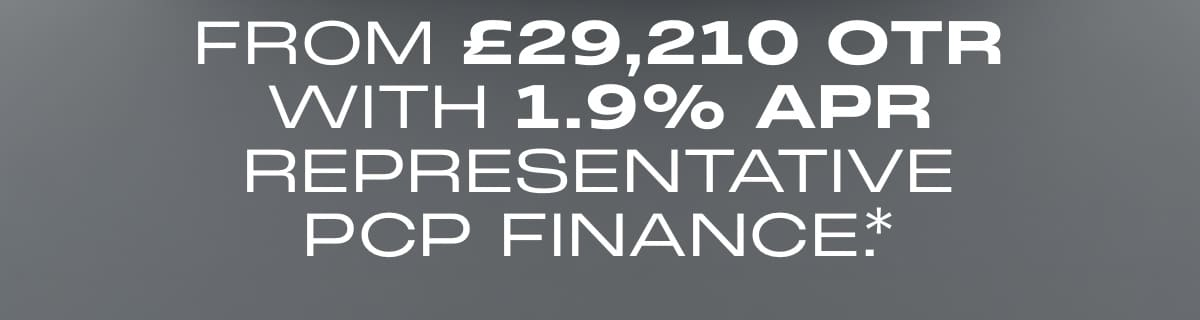
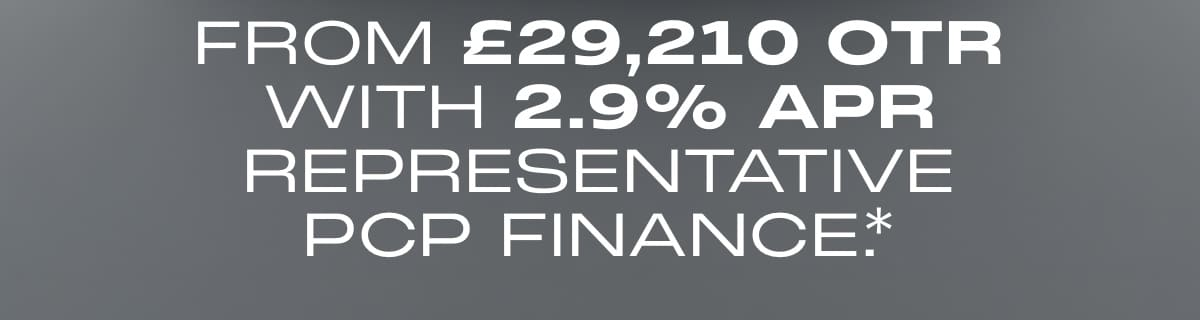
amends

Changed region(s): [[0.2158, 0.25, 0.8017, 0.4062]]

diff --git a/complete/omoda/JAECOO 7 SHS Hybrid Q3 2026 Offer Email/index.html b/complete/omoda/JAECOO 7 SHS Hybrid Q3 2026 Offer Email/index.html
@@ -126,9 +126,9 @@
                 <td align="center">
                   <img class="resp" align="center" src="images/hero-img.jpg" alt="JAECOO 7 SHS HYBRID" width="600" border="0" style="display: block; width: 600px; max-width: 100%; height: auto; font-family: Calibri, Helvetica, Arial, sans-serif; font-size:22px; line-height: 22px; color:#ffffff; Margin: 0; font-weight: bold">
                   <h2 style="font-family: Calibri, Helvetica, Arial, sans-serif; font-size:22px; line-height: 22px; color:#ffffff; Margin: 0; font-weight: bold">
-                    <img class="resp hom" align="center" src="images/hero-h1-d.jpg" alt="From £29,210 OTR with 1.9% APR representative PCP finance*." width="600" border="0" style="display: block; width: 600px; max-width: 100%; height: auto">
+                    <img class="resp hom" align="center" src="images/hero-h1-d.jpg" alt="From £29,210 OTR with 2.9% APR representative PCP finance*." width="600" border="0" style="display: block; width: 600px; max-width: 100%; height: auto">
                     <!--[if !mso]><!-->
-                    <img class="resp som" align="center" src="images/hero-h1-d.jpg" alt="From £29,210 OTR with 1.9% APR representative PCP finance*." border="0" style="display: none; width: 100%; max-width: 100%;height: auto">
+                    <img class="resp som" align="center" src="images/hero-h1-d.jpg" alt="From £29,210 OTR with 2.9% APR representative PCP finance*." border="0" style="display: none; width: 100%; max-width: 100%;height: auto">
                     <!--<![endif]-->
                   </h2>
                 </td>
@@ -153,7 +153,7 @@
                 </td>
                 <td style="padding: 20px 30px 20px; mso-padding-alt: 40px 30px 20px 30px;" align="center">
                   <p style="font-family: Calibri, Helvetica, Arial, sans-serif; font-size: 16px; line-height: 24px; mso-line-height-rule: exactly; color: #ffffff; Margin: 0 0 16px 0;">Hello&nbsp;[Name],</p>
-                  <p style="font-family: Calibri, Helvetica, Arial, sans-serif; font-size: 16px; line-height: 24px; mso-line-height-rule: exactly; color: #ffffff; Margin: 0 0 16px 0;">Experience the best of both worlds with the JAECOO 7 SHS Hybrid, <br class="hom"><strong>£29,210 OTR</strong> with <strong>1.9% APR Representative PCP&nbsp;Finance*</strong>.</p>
+                  <p style="font-family: Calibri, Helvetica, Arial, sans-serif; font-size: 16px; line-height: 24px; mso-line-height-rule: exactly; color: #ffffff; Margin: 0 0 16px 0;">Experience the best of both worlds with the JAECOO 7 SHS Hybrid, <br class="hom"><strong>£29,210 OTR</strong> with <strong>2.9% APR Representative PCP&nbsp;Finance*</strong>.</p>
                   <p style="font-family: Calibri, Helvetica, Arial, sans-serif; font-size: 16px; line-height: 24px; mso-line-height-rule: exactly; color: #ffffff; Margin: 0 0 16px 0;">Enjoy efficient electric driving for everyday journeys and petrol power when you need it, with seamless performance, low running costs and impressive refinement. Drive smarter with&nbsp;confidence.</p>
                   <p style="font-family: Calibri, Helvetica, Arial, sans-serif; font-size: 16px; line-height: 24px; mso-line-height-rule: exactly; color: #ffffff; Margin: 0 0 16px 0;">Find out more, book a test drive&nbsp;today.</p>
                 </td>
@@ -436,7 +436,7 @@
                     *Terms and Conditions.
                   </h4>
                   <p style="font-family: Calibri, Helvetica, Arial, sans-serif; font-size:10px; color:#ffffff; mso-line-height-rule:exactly; line-height:16px; font-weight: normal; Margin: 0 0 10px" class="para hauto">
-                    Representative 2.90% APR, on JAECOO 7 1.5T SHS&#8209;H Pure 5dr&nbsp;Auto
+                    Representative 2.90% APR, on JAECOO 7 1.5T SHS&#8209;H Pure 5dr&nbsp;Auto.
                   </p>
                   <p style="font-family: Calibri, Helvetica, Arial, sans-serif; font-size:10px; color:#ffffff; mso-line-height-rule:exactly; line-height:16px; font-weight: normal; Margin: 0 0 10px" class="para hauto">
                     Representative Example based on 6,000 miles per annum. Credit available subject to&nbsp;status.
@@ -451,14 +451,11 @@
                     With Personal Contract Purchase, once you have paid all of your regular monthly repayments you can either 1) Pay the Optional Final Repayment and own the car. 2) Part exchange the car for a new one (subject to settlement of your existing agreement, new agreements are subject to status). 3) Return the car to Creation without paying the optional final repayment. Providing you’ve not exceeded the maximum agreed mileage and the car is in good condition (fair wear and tear accepted) you will have nothing further to pay. If the vehicle has exceeded the maximum agreed mileage then a charge of 10.0p+ VAT per excess mile&nbsp;applies.
                   </p>
                   <p style="font-family: Calibri, Helvetica, Arial, sans-serif; font-size:10px; color:#ffffff; mso-line-height-rule:exactly; line-height:16px; font-weight: normal; Margin: 0 0 10px" class="para hauto">
-                    OMODA &amp; JAECOO UK is an Appointed Representative of Automotive Compliance Ltd, who is authorised and regulated by the Financial Conduct Authority (FCA No 497010). Automotive Compliance Ltd’s permissions as a Principal Firm allows OMODA &amp; JAECOO UK to act as a credit broker, not as a lender, for the introduction to a limited number of lenders and to act as an agent on behalf of the insurer for insurance distribution activities only. We are a credit broker and not a lender. We can introduce you to a limited number of lenders and their finance products. We are not an independent financial advisor and we act as their agent for this introduction. We may advise you on the products, subject to your personal circumstances, though you are not obliged to take our advice or recommendation. We do not charge you a fee for our services. Whichever lender we introduce you to, we will typically receive commission from them (either a fixed fee or a fixed percentage of the amount you borrow). For your reassurance, all of the lenders we work with could pay commission at different rates, but the commission we receive does not influence the interest rate you will pay. Our aim is to secure finance for you at the lowest interest rate you are eligible for from our panel of lenders. If you ask us what the amount of commission is, we will tell you in good time before the Finance agreement is executed. All finance applications are subject to status, terms and conditions&nbsp;apply.
+                    Offer available on eligible vehicle orders placed from 01/07/26 until withdrawn, subject to availability. OMODA &amp; JAECOO UK Limited reserves the right to amend or withdraw this offer without prior notice. Any such amendment or withdrawal will not affect finance agreements already entered&nbsp;into.
                   </p>
                   <p style="font-family: Calibri, Helvetica, Arial, sans-serif; font-size:10px; color:#ffffff; mso-line-height-rule:exactly; line-height:16px; font-weight: normal; Margin: 0 0 10px" class="para hauto">
                     <span style="color: magenta">{Insert your financial permissions here. This includes but is not limited to your credit broker statement and additi onal small print. Example of minimum criteria below. {Full legal entity name plus any trading name(s)} is a credit broker, not a lender {post code}. Finance provided by ** Finance Provider **, ** Finance Providers Postcode**. Finance subject to status, 18+ Ts &amp; Cs&nbsp;apply.}
                     </span>
-                  </p>
-                  <p style="font-family: Calibri, Helvetica, Arial, sans-serif; font-size:10px; color:#ffffff; mso-line-height-rule:exactly; line-height:16px; font-weight: normal; Margin: 0 0 10px" class="para hauto">
-                    † Offer valid for private retail only upon taking a test drive. Not available to Fleet customer or Motability customers. The £500 (incl. VAT) is redeemable against the purchase of a new JAECOO 7 Deluxe ordered and registered between 1st October to 31st December 2025. Offer can be used in conjunction with the 3.9% APR finance offer. Available at participating retailers only. This offer cannot be used in conjunction with any other promotions or discounts. For full details, please contact your local OMODA &amp; JAECOO dealer. OMODA &amp; JAECOO UK Limited reserves the right to amend or withdraw this offer at any time without prior&nbsp;notice.
                   </p>
                   
                 </td>
@@ -491,8 +488,8 @@
                   <p style="font-family: Calibri, Helvetica, Arial, sans-serif; font-size:10px; color:#ffffff; mso-line-height-rule:exactly; line-height:16px; font-weight: normal; Margin: 0 0 0px" class="para hauto">
                     © OMODA &amp; JAECOO UK LIMITED 2026. omodaauto.co.uk <br>
                     Registered in England and Wales with company number 15203898. <br>
-                    Registered address: Building 7 Chiswick Park, 566 Chiswick High Road,<br> 
-                    London W4 5YG, United&nbsp;Kingdom
+                    Registered address: Building 7 Chiswick Park, 566 Chiswick High Road,<br class="hom"> 
+                    London W4&nbsp;5YG, United&nbsp;Kingdom
                   </p>
                 </td>
                 <td width="30" style="width: 30px" class="">

diff --git a/complete/omoda/JAECOO 5 SHS-H Q3 2026 Offer Email/index.html b/complete/omoda/JAECOO 5 SHS-H Q3 2026 Offer Email/index.html
@@ -435,7 +435,7 @@
                     *Terms and Conditions.
                   </h4>
                   <p style="font-family: Calibri, Helvetica, Arial, sans-serif; font-size:10px; color:#ffffff; mso-line-height-rule:exactly; line-height:16px; font-weight: normal; Margin: 0 0 10px" class="para hauto">
-                    Representative 1.90% APR, on JAECOO 5 SHS&#8209;H Pure&nbsp;5dr
+                    Representative 1.90% APR, on JAECOO 5 SHS&#8209;H Pure&nbsp;5dr.
                   </p>
                   <p style="font-family: Calibri, Helvetica, Arial, sans-serif; font-size:10px; color:#ffffff; mso-line-height-rule:exactly; line-height:16px; font-weight: normal; Margin: 0 0 10px" class="para hauto">
                     Representative Example based on 6,000 miles per annum. Credit available subject to&nbsp;status.
@@ -447,7 +447,7 @@
                     Images shown for illustration purposes&nbsp;only.
                   </p>
                   <p style="font-family: Calibri, Helvetica, Arial, sans-serif; font-size:10px; color:#ffffff; mso-line-height-rule:exactly; line-height:16px; font-weight: normal; Margin: 0 0 10px" class="para hauto">
-                    With Personal Contract Purchase, once you have paid all of your regular monthly repayments you can either 1) Pay the Optional Final Repayment and own the car. 2) Part exchange the car for a new one (subject to settlement of your existing agreement, new agreements are subject to status). 3) Return the car to Creation without paying the optional final repayment. Providing you’ve not exceeded the maximum agreed mileage and the car is in good condition (fair wear and tear accepted) you will have nothing further to pay. If the vehicle has exceeded the maximum agreed mileage then a charge of 8.0p+ VAT per excess mile&nbsp;applies.
+                    With Personal Contract Purchase, once you have paid all of your regular monthly repayments you can either 1) Pay the Optional Final Repayment and own the car. 2) Part exchange the car for a new one (subject to settlement of your existing agreement, new agreements are subject to status). 3) Return the car to Creation without paying the optional final repayment. Providing you’ve not exceeded the maximum agreed mileage and the car is in good condition (fair wear and tear accepted) you will have nothing further to pay. If the vehicle has exceeded the maximum agreed mileage then a charge of 9.0p+ VAT per excess mile&nbsp;applies.
                   </p>
                   <p style="font-family: Calibri, Helvetica, Arial, sans-serif; font-size:10px; color:#ffffff; mso-line-height-rule:exactly; line-height:16px; font-weight: normal; Margin: 0 0 10px" class="para hauto">
                     Offer available on eligible vehicle orders placed from 01/07/26 until withdrawn, subject to availability. OMODA &amp; JAECOO UK Limited reserves the right to amend or withdraw this offer without prior notice. Any such amendment or withdrawal will not affect finance agreements already entered&nbsp;into.
@@ -486,8 +486,8 @@
                   <p style="font-family: Calibri, Helvetica, Arial, sans-serif; font-size:10px; color:#ffffff; mso-line-height-rule:exactly; line-height:16px; font-weight: normal; Margin: 0 0 0px" class="para hauto">
                     © OMODA &amp; JAECOO UK LIMITED 2026. omodaauto.co.uk <br>
                     Registered in England and Wales with company number 15203898. <br>
-                    Registered address: Building 7 Chiswick Park, 566 Chiswick High Road,<br> 
-                    London W4 5YG, United&nbsp;Kingdom
+                    Registered address: Building 7 Chiswick Park, 566 Chiswick High Road,<br class="hom"> 
+                    London W4&nbsp;5YG, United&nbsp;Kingdom
                   </p>
                 </td>
                 <td width="30" style="width: 30px" class="">

diff --git a/complete/omoda/JAECOO 7 Black Luxury Q3 2026 Offer Email/index.html b/complete/omoda/JAECOO 7 Black Luxury Q3 2026 Offer Email/index.html
@@ -448,7 +448,7 @@
                     Images shown for illustration purposes&nbsp;only.
                   </p>
                   <p style="font-family: Calibri, Helvetica, Arial, sans-serif; font-size:10px; color:#ffffff; mso-line-height-rule:exactly; line-height:16px; font-weight: normal; Margin: 0 0 10px" class="para hauto">
-                    With Personal Contract Purchase, once you have paid all of your regular monthly repayments you can either 1) Pay the Optional Final Repayment and own the car. 2) Part exchange the car for a new one (subject to settlement of your existing agreement, new agreements are subject to status). 3) Return the car to Creation without paying the optional final repayment. Providing you’ve not exceeded the maximum agreed mileage and the car is in good condition (fair wear and tear accepted) you will have nothing further to pay. If the vehicle has exceeded the maximum agreed mileage then a charge of 10.0p+ VAT per excess mile&nbsp;applies.
+                    With Personal Contract Purchase, once you have paid all of your regular monthly repayments you can either 1) Pay the Optional Final Repayment and own the car. 2) Part exchange the car for a new one (subject to settlement of your existing agreement, new agreements are subject to status). 3) Return the car to Creation without paying the optional final repayment. Providing you’ve not exceeded the maximum agreed mileage and the car is in good condition (fair wear and tear accepted) you will have nothing further to pay. If the vehicle has exceeded the maximum agreed mileage then a charge of 11.0p+ VAT per excess mile&nbsp;applies.
                   </p>
                   <p style="font-family: Calibri, Helvetica, Arial, sans-serif; font-size:10px; color:#ffffff; mso-line-height-rule:exactly; line-height:16px; font-weight: normal; Margin: 0 0 10px" class="para hauto">
                     Offer available on eligible vehicle orders placed from 01/07/26 until withdrawn, subject to availability. OMODA &amp; JAECOO UK Limited reserves the right to amend or withdraw this offer without prior notice. Any such amendment or withdrawal will not affect finance agreements already entered&nbsp;into.
@@ -459,7 +459,7 @@
                     </span>
                   </p>
                   <p style="font-family: Calibri, Helvetica, Arial, sans-serif; font-size:10px; color:#ffffff; mso-line-height-rule:exactly; line-height:16px; font-weight: normal; Margin: 0 0 10px" class="para hauto">
-                    † Offer valid for private retail only upon taking a test drive. Not available to Fleet customer or Motability customers. The £500 (incl. VAT) is redeemable against the purchase of a new JAECOO 7 Deluxe ordered and registered between 1st October to 31st December 2025. Offer can be used in conjunction with the 3.9% APR finance offer. Available at participating retailers only. This offer cannot be used in conjunction with any other promotions or discounts. For full details, please contact your local OMODA &amp; JAECOO dealer. OMODA &amp; JAECOO UK Limited reserves the right to amend or withdraw this offer at any time without prior&nbsp;notice.
+                    † Offer valid for private retail only upon taking a test drive. Not available to Fleet customer or Motability customers. The £500 (incl. VAT) is redeemable against the purchase of a new JAECOO 7 1.5T PHEV Black Luxury 5dr Auto on orders placed from 01/07/26 until withdrawn, subject to availability. Offer can be used in conjunction with the 0.9% APR finance offer. Available at participating retailers only. This offer cannot be used in conjunction with any other promotions or discounts. For full details, please contact your local OMODA &amp; JAECOO dealer. OMODA &amp; JAECOO UK Limited reserves the right to amend or withdraw this offer at any time without prior&nbsp;notice.
                   </p>
                 </td>
                 <td width="30" style="width: 30px" class="">
@@ -491,8 +491,8 @@
                   <p style="font-family: Calibri, Helvetica, Arial, sans-serif; font-size:10px; color:#ffffff; mso-line-height-rule:exactly; line-height:16px; font-weight: normal; Margin: 0 0 0px" class="para hauto">
                     © OMODA &amp; JAECOO UK LIMITED 2026. omodaauto.co.uk <br>
                     Registered in England and Wales with company number 15203898. <br>
-                    Registered address: Building 7 Chiswick Park, 566 Chiswick High Road,<br> 
-                    London W4 5YG, United&nbsp;Kingdom
+                    Registered address: Building 7 Chiswick Park, 566 Chiswick High Road,<br class="hom"> 
+                    London W4&nbsp;5YG, United&nbsp;Kingdom
                   </p>
                 </td>
                 <td width="30" style="width: 30px" class="">

diff --git a/complete/omoda/JAECOO 7 SHS Plug Q3 2026 Offer Email/index.html b/complete/omoda/JAECOO 7 SHS Plug Q3 2026 Offer Email/index.html
@@ -126,9 +126,9 @@
                 <td align="center">
                   <img class="resp" align="center" src="images/hero-img.jpg" alt="JAECOO 7 SHS-P" width="600" border="0" style="display: block; width: 600px; max-width: 100%; height: auto; font-family: Calibri, Helvetica, Arial, sans-serif; font-size:22px; line-height: 22px; color:#ffffff; Margin: 0; font-weight: bold">
                   <h2 style="font-family: Calibri, Helvetica, Arial, sans-serif; font-size:22px; line-height: 22px; color:#ffffff; Margin: 0; font-weight: bold">
-                    <img class="resp hom" align="center" src="images/hero-h1-d.jpg" alt="From £30,170 OTR with a £500 Test Drive Voucher and 0.9% APR representative PCP finance*." width="600" border="0" style="display: block; width: 600px; max-width: 100%; height: auto">
+                    <img class="resp hom" align="center" src="images/hero-h1-d.jpg" alt="From £35,170 OTR with a £500 Test Drive Voucher and 0.9% APR representative PCP finance*." width="600" border="0" style="display: block; width: 600px; max-width: 100%; height: auto">
                     <!--[if !mso]><!-->
-                    <img class="resp som" align="center" src="images/hero-h1-d.jpg" alt="From £30,170 OTR with a £500 Test Drive Voucher and 0.9% APR representative PCP finance*." border="0" style="display: none; width: 100%; max-width: 100%;height: auto">
+                    <img class="resp som" align="center" src="images/hero-h1-d.jpg" alt="From £35,170 OTR with a £500 Test Drive Voucher and 0.9% APR representative PCP finance*." border="0" style="display: none; width: 100%; max-width: 100%;height: auto">
                     <!--<![endif]-->
                   </h2>
                 </td>
@@ -153,7 +153,7 @@
                 </td>
                 <td style="padding: 20px 30px 20px; mso-padding-alt: 40px 30px 20px 30px;" align="center">
                   <p style="font-family: Calibri, Helvetica, Arial, sans-serif; font-size: 16px; line-height: 24px; mso-line-height-rule: exactly; color: #ffffff; Margin: 0 0 16px 0;">Hello&nbsp;[Name],</p>
-                  <p style="font-family: Calibri, Helvetica, Arial, sans-serif; font-size: 16px; line-height: 24px; mso-line-height-rule: exactly; color: #ffffff; Margin: 0 0 16px 0;">Experience hybrid freedom in the JAECOO 7 SHS, from <strong>£35,170&nbsp;OTR</strong> with <strong>0.9% APR Representative PCP Finance</strong> and receive a <strong>£500 Test Drive Voucher</strong> towards your new&nbsp;vehicle.</p>
+                  <p style="font-family: Calibri, Helvetica, Arial, sans-serif; font-size: 16px; line-height: 24px; mso-line-height-rule: exactly; color: #ffffff; Margin: 0 0 16px 0;">Experience hybrid freedom in the JAECOO 7 SHS, from <strong>£35,170&nbsp;OTR</strong> with <strong>0.9% APR Representative PCP Finance</strong> and receive a <strong>£500 Test Drive Voucher</strong><sup style="font-size: 10px; line-height: 0; ">†</sup> towards your new&nbsp;vehicle.</p>
                   <p style="font-family: Calibri, Helvetica, Arial, sans-serif; font-size: 16px; line-height: 24px; mso-line-height-rule: exactly; color: #ffffff; Margin: 0 0 16px 0;">Our Advanced Super Hybrid System (SHS) offers seamless electric driving, remarkable efficiency and a range of up to 745 miles, so every journey goes further. With advanced technology and refined comfort, it’s built for every&nbsp;adventure.</p>
                   <p style="font-family: Calibri, Helvetica, Arial, sans-serif; font-size: 16px; line-height: 24px; mso-line-height-rule: exactly; color: #ffffff; Margin: 0 0 16px 0;">Take advantage of this amazing offer. Book a test drive&nbsp;today.</p>
                 </td>
@@ -453,7 +453,7 @@
                     Offer available on eligible vehicle orders placed from 01/07/26 until withdrawn, subject to availability. OMODA &amp; JAECOO UK Limited reserves the right to amend or withdraw this offer without prior notice. Any such amendment or withdrawal will not affect finance agreements already entered&nbsp;into.
                   </p>
                   <p style="font-family: Calibri, Helvetica, Arial, sans-serif; font-size:10px; color:#ffffff; mso-line-height-rule:exactly; line-height:16px; font-weight: normal; Margin: 0 0 10px" class="para hauto">
-                    Test drive offer valid for private retail customers only upon taking a test drive. Not available to Fleet customers or Motability customers. The £500 (incl. VAT) is redeemable against the purchase of a new Jaecoo 7 1.5T PHEV Luxury 5dr Auto and Jaecoo 7 1.5T PHEV Black Luxury 5dr Auto ordered from 01/07/26 to 02/08/26 and accepted by&nbsp;02/08/26.
+                    † Offer valid for private retail only upon taking a test drive. Not available to Fleet customer or Motability customers. The £500 (incl. VAT) is redeemable against the purchase of a new JAECOO 7 1.5T PHEV Luxury 5dr Auto on orders placed from 01/07/26 until withdrawn, subject to availability.. Offer can be used in conjunction with the 0.9% APR finance offer. Available at participating retailers only. This offer cannot be used in conjunction with any other promotions or discounts. For full details, please contact your local OMODA &amp; JAECOO dealer. OMODA &amp; JAECOO UK Limited reserves the right to amend or withdraw this offer at any time without prior&nbsp;notice.
                   </p>
                   <p style="font-family: Calibri, Helvetica, Arial, sans-serif; font-size:10px; color:#ffffff; mso-line-height-rule:exactly; line-height:16px; font-weight: normal; Margin: 0 0 10px" class="para hauto">
                     <span style="color: magenta">{Insert your financial permissions here. This includes but is not limited to your credit broker statement and additi onal small print. Example of minimum criteria below. {Full legal entity name plus any trading name(s)} is a credit broker, not a lender {post code}. Finance provided by ** Finance Provider **, ** Finance Providers Postcode**. Finance subject to status, 18+ Ts &amp; Cs&nbsp;apply.}

diff --git a/complete/omoda/OMODA 5 Q3 2026 Offer Email/index.html b/complete/omoda/OMODA 5 Q3 2026 Offer Email/index.html
@@ -538,7 +538,7 @@
                     *Terms and Conditions.
                   </h3>
                   <p style="font-family: Calibri, Helvetica, Arial, sans-serif; font-size:10px; color:#ffffff; mso-line-height-rule:exactly; line-height:16px; font-weight: normal;Margin: 0 0 10px" class="para hauto">
-                    Representative 0.9% APR, on OMODA 5 Petrol Knight 147PS 1.6t + 7DT and OMODA 5 Petrol Knight 147PS 1.6t +&nbsp;7DT
+                    Representative 0.9% APR, on OMODA 5 Petrol Knight 147PS 1.6t +&nbsp;7DT
                   </p>
                   <p style="font-family: Calibri, Helvetica, Arial, sans-serif; font-size:10px; color:#ffffff; mso-line-height-rule:exactly; line-height:16px; font-weight: normal;Margin: 0 0 10px" class="para hauto">
                     Representative Example based on 6,000 miles per annum. Credit available subject to&nbsp;status.